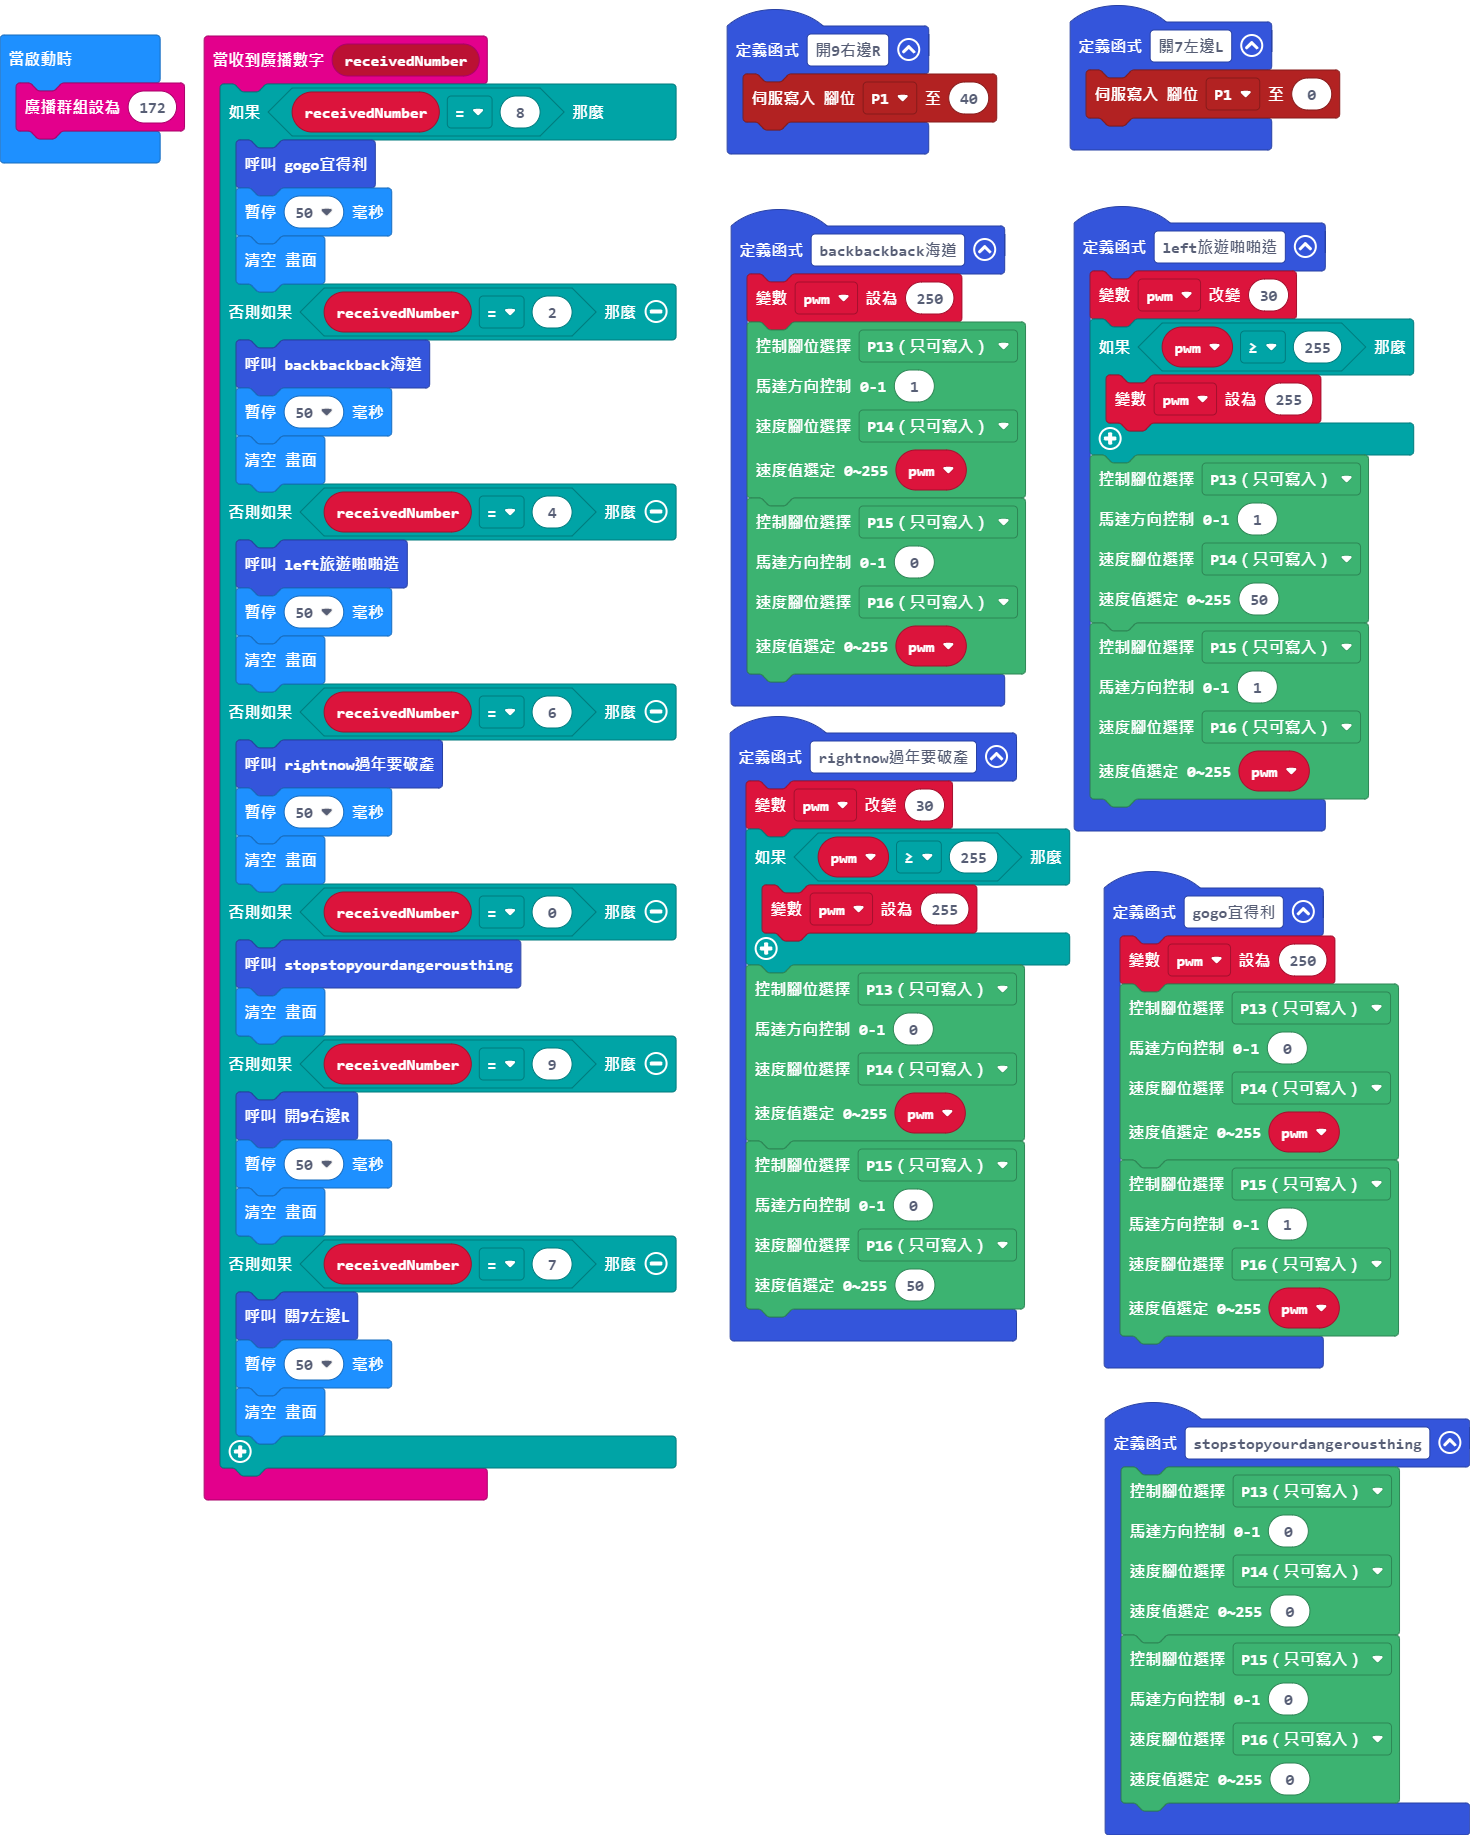
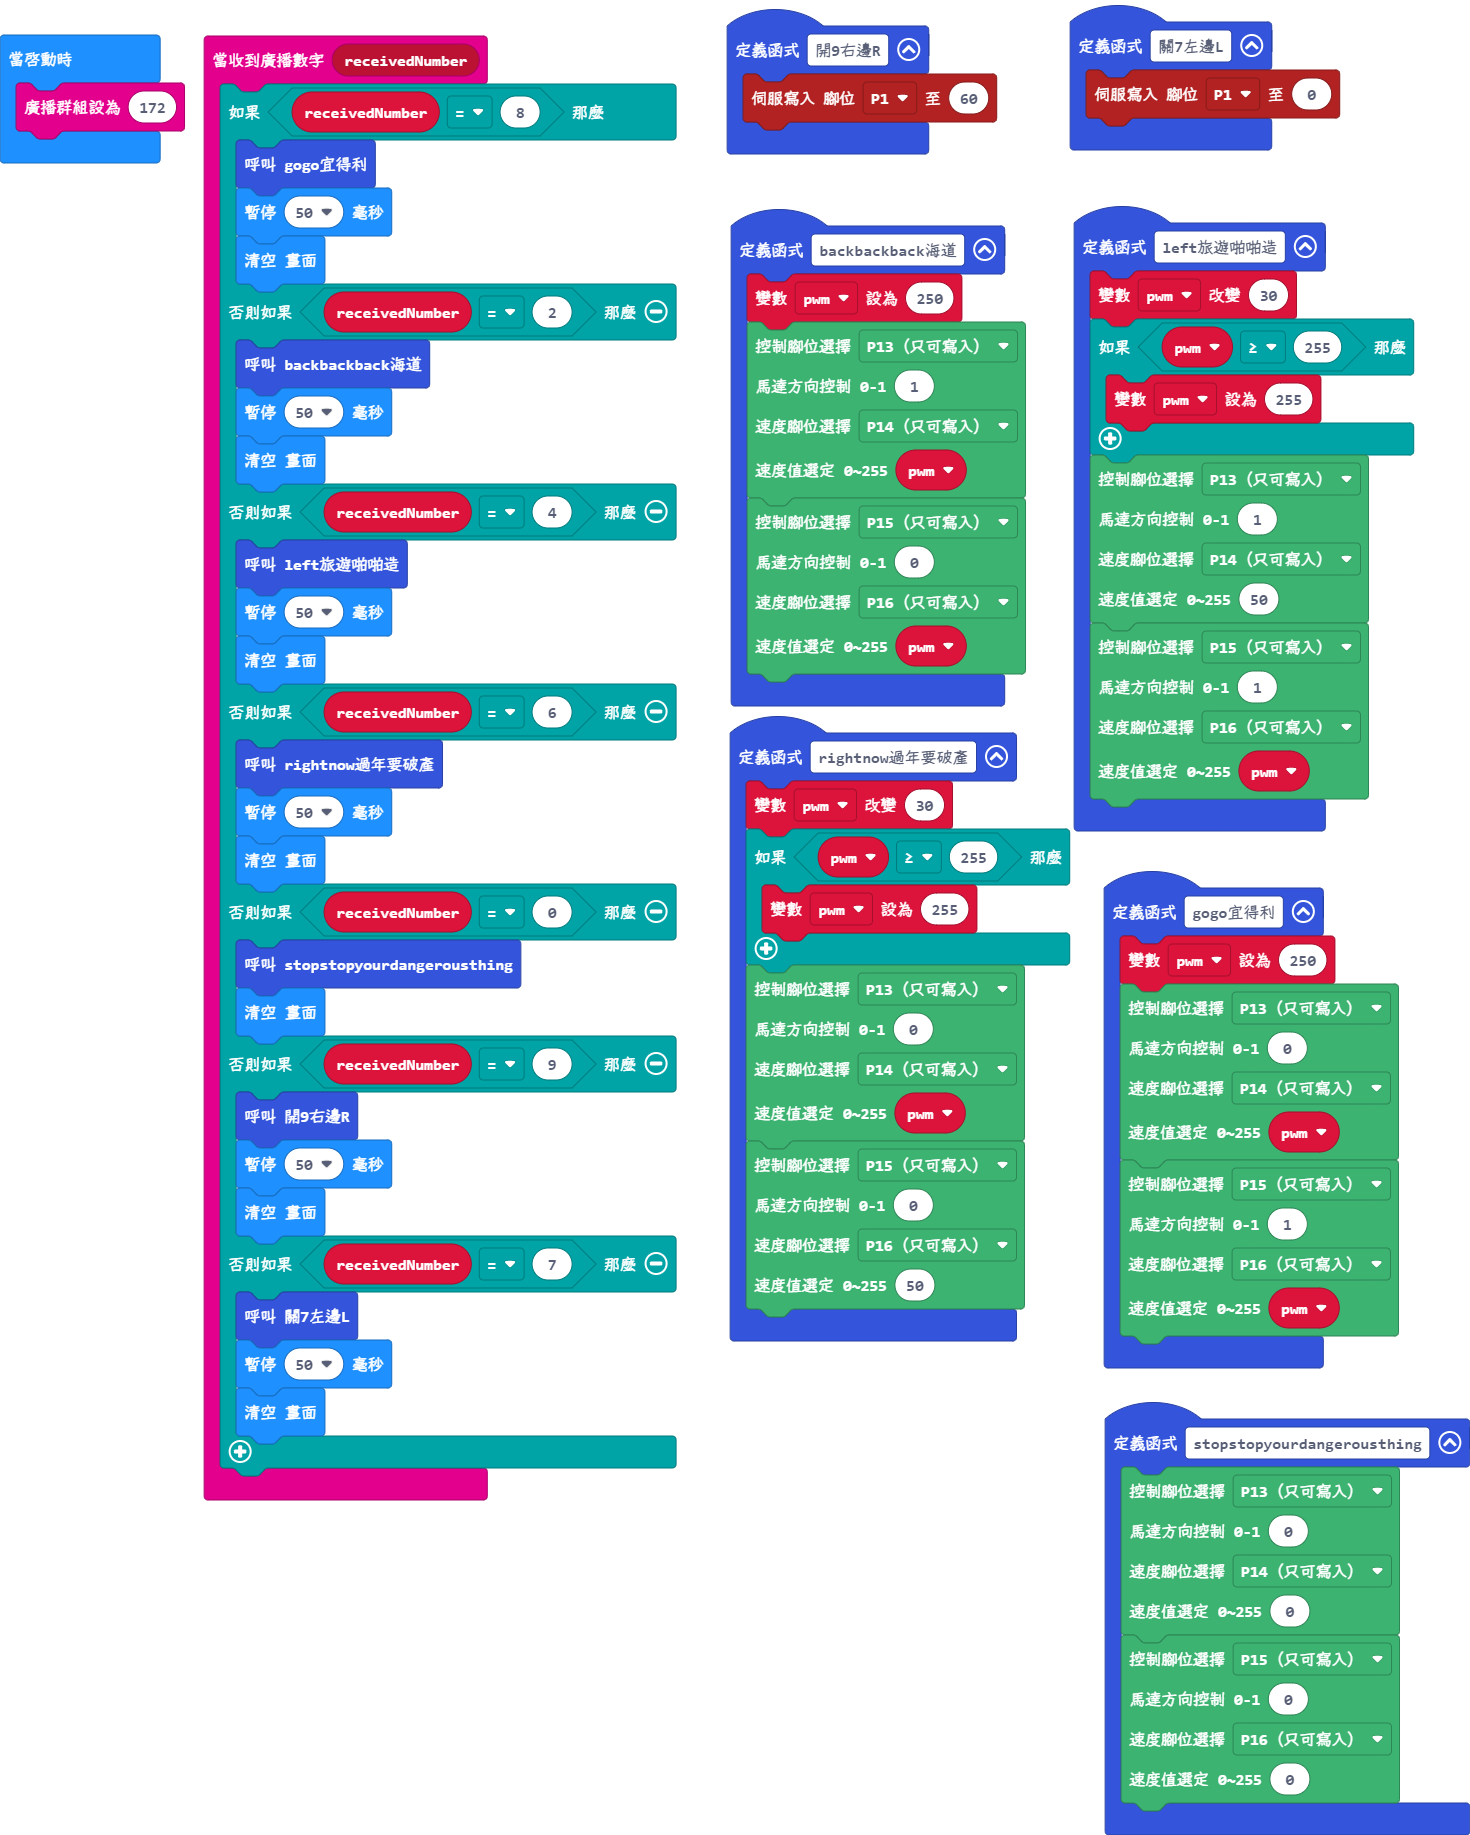
更新 main.blocks, main.ts

diff --git a/main.ts b/main.ts
@@ -44,7 +44,7 @@ radio.onReceivedNumber(function (receivedNumber) {
     }
 })
 function 開9右邊R () {
-    pins.servoWritePin(AnalogPin.P1, 40)
+    pins.servoWritePin(AnalogPin.P1, 60)
 }
 function 關7左邊L () {
     pins.servoWritePin(AnalogPin.P1, 0)
